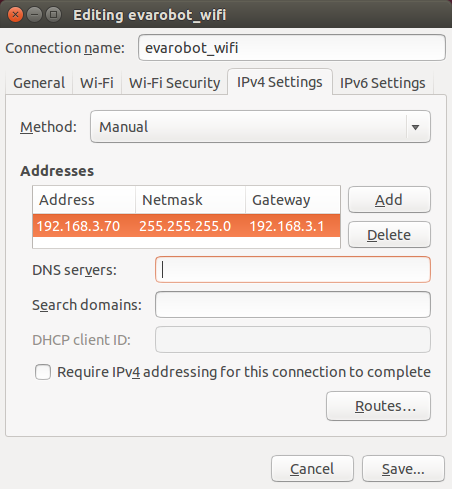
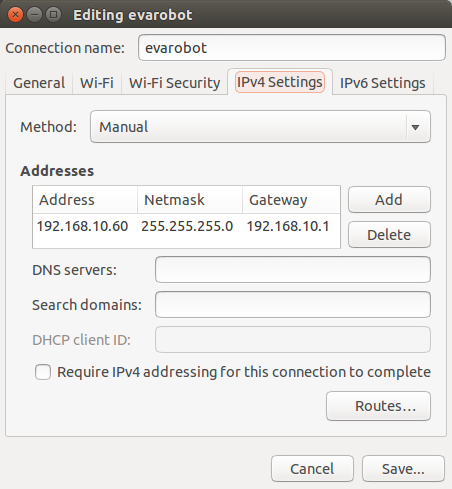
ip ve sync launch duzeltmeleri

diff --git a/hazirlik.rst b/hazirlik.rst
@@ -160,18 +160,20 @@ Evarobot PC paketi indirilir ve derlenir.
 	> cd ~/catkin_ws/src
 
 	# evarobot pc paketi indirilir.
-	> git clone https://github.com/inomuh/evapc_ros.git -b eva50
+	> git clone https://github.com/inomuh/evapc_ros.git -b indigo-devel
 
 Evarobot simulasyon ortamını kurmak için evarobot_simulation paketinin indirilmesi gerekmektedir.
 İlgili bilgisayarda simulasyon ortamını kurmadıysanız bu adımı geçebilirsiniz.
 
 ::
-	> git clone https://github.com/inomuh/evarobot_simulator.git
+
+	> git clone https://github.com/inomuh/evarobot_simulator.git -b indigo-devel
 	
 	
 Indirilen paketler derlenir.
 
 ::
+
 	> cd ~/catkin_ws
 	> catkin_make
 
@@ -251,16 +253,16 @@ ve hostname bilgilerini giriyoruz. Burada dikkat edilmesi gereken konu, aynı ip
 
 ::
 
-	192.168.3.70 <hostname>
-	192.168.3.10 evarobotDSK
+	192.168.10.60 <hostname>
+	192.168.10.10 evarobot
 
 Örnekte kullandığımız bilgisayar için aşağıdaki gibi ekleme yaptık. 
 Sizde kendi bilgisayarınızın hostname'ine uygun olarak düzeltme yapmalısınız.
 
 ::
 
-	192.168.3.70 evarobotserver
-	192.168.3.10 evarobotDSK
+	192.168.10.60 evarobotserver
+	192.168.10.10 evarobot
 
 
 evarobot ile bilgisayar arasında zaman eşitlemesinin yapılması gerekmektedir. 
@@ -290,7 +292,7 @@ Editörde 23. satıra aşağıdaki satırlar eklenir.
 
 ::
 
-	broadcast evarobotDSK
+	broadcast evarobot
 
 Bilgisayar bir ağda client gibi çalışarak internetten saatini güncellerken, 
 evarobot_wifi ağına girdiğinde ntp sunucu gibi çalışması için yeniden başlatmak gerekmektedir. 
@@ -309,16 +311,16 @@ NTP ağındaki bilgisayarlar hakkında bilgi almak için aşağıdaki kod kullan
 
 evarobot_wifi ağı için ip ayarlarının yapılması
 
-Bu kısımda evarobot_wifi ağından 192.168.3.70 ip'sini statik olarak almak için ayarlar yapacağız. 
+Bu kısımda evarobot_wifi ağından 192.168.10.60 ip'sini statik olarak almak için ayarlar yapacağız. 
 Evarobot'a güç verdiğinizde bir kaç dakika içerisinde evarobot_wifi isimli ağı görebilirsiniz. 
 
 Modem bilgileri: 
 
-SSID: evarobot_wifi 
+SSID: evarobot
 
 Şifre: inomuh2015 
 
-Aşağıdaki resimlerdeki 'evarobot_wifi' isimli ağa girilir. 
+Aşağıdaki resimlerdeki 'evarobot' isimli ağa girilir. 
 
 .. figure:: _static/evarobot_wifi1.png
    :align: center
@@ -342,7 +344,7 @@ Ağdan şu anda dhcp tarafından otomatik bir ip atandı. Aşağıdaki resimlerd
    :figclass: align-centered
    
 Açılan ekranda 'IPv4 Settings' sekmesi altında 'Method' Manual seçilerek 
-resimdeki gibi adresler eklenir. Address: 192.168.3.70 Netmask: 255.255.255.0 Gateway: 192.168.3.1 
+resimdeki gibi adresler eklenir. Address: 192.168.10.60 Netmask: 255.255.255.0 Gateway: 192.168.10.1 
 
 .. figure:: _static/evarobot_wifi5.png
    :align: center
@@ -360,7 +362,7 @@ Yeni girilen ayarların aktif olması için resimdeki gibi Wifi Enable ve ardın
 
 
 Eğer ayarlamalar hatasız bir şekilde yapıldı ise terminalde aşağıdaki kod çalıştırıldığında
-resimdeki gibi bilgisayarın 192.168.3.70 no ip'yi almış olması beklenmektedir.
+resimdeki gibi bilgisayarın 192.168.10.60 no ip'yi almış olması beklenmektedir.
 
 ::
 
@@ -377,11 +379,11 @@ bilgisayar tarafında yapılması gerekli olan ayarlamaları yapmış bulunmakta
 
 Evarobot ağ ayarlarını yapmadan önce Bilgisayar Ağ Ayarlarını yapmış olmasınız.
 
-evarobot_wifi ağına statik ip ile bağlandıktan sonra, ssh ile Evarobot'a bağlanılır. (Şifre: 12345)
+evarobot ağına statik ip ile bağlandıktan sonra, ssh ile Evarobot'a bağlanılır. (Şifre: 12345)
    
 ::
 
-	> ssh pi@evarobotDSK
+	> ssh pi@evarobot
 	
 Evarobot içerisindeki 'hosts' isimli dosyaya kendi bilgisayarımızın adını ve IP'sini 
 eklemek için açıyoruz. Evarobot'a ssh ile bağlandığımız için içeride görsel bir şey 
@@ -395,13 +397,13 @@ Aşağıdaki gibi eklemeye yapacağız. Hostname yerine bilgisayarımızın host
 
 ::
 
-	192.168.3.70 <hostname>
+	192.168.10.60 <hostname>
 
 Örnek için kullandığımız bilgisayar için aşağıdaki gibi bir giriş yapıyoruz.
 
 ::
 
-	192.168.3.70 evarobotserver
+	192.168.10.60 evarobotserver
 
 Kaydederek çıkmak için Ctrl + X tuş kombinasyonunu kullanıyoruz. Kaydetmek 
 isteyip istemediğimizi soracak Y tuşuna basıyoruz. Ardından dosya isminde değişiklik yapmadan Enter'a basıyoruz.

diff --git a/calistirma.rst b/calistirma.rst
@@ -4,13 +4,13 @@
 Bilgisayarı Çalıştırma
 ----------------------
 Bu kısımda bilgisayardan evarobotunuzu kontrol etmek için yapmanız gerekenler anlatılmaktadır.
-evarobot'a güç verildiğinde evarobot_wifi isminde kablosuz ağ oluşmakta ve EKB(Elektronik Kontrol Birimi) açılmaktadır. 
-Bilgisayardan evarobot_wifi(Şifre: inomuh2015) ağına girilir ve ssh ile Evarobot'a bağlanılır. 
+evarobot'a güç verildiğinde evarobot isminde kablosuz ağ oluşmakta ve EKB(Elektronik Kontrol Birimi) açılmaktadır. 
+Bilgisayardan evarobot (Şifre: inomuh2015) ağına girilir ve ssh ile Evarobot'a bağlanılır. 
 SSH bağlantısı yapmak için aşağıdaki kod çalıştırılır.
 
 ::
 
-	> ssh root@evarobotDSK
+	> ssh pi@evarobot
 
 evarobot üzerinde ROS kütüphanelerini çalıştırmak için süper kullanıcı olarak giriş yapmak gerekmektedir. 
 SSH yaptıktan sonra süper kullanıcı girişi aşağıdaki kod çalıştırılarak yapılır.
@@ -24,7 +24,7 @@ evarobot içerisinde her yeni bir terminal açmak istenildiğinde yukarıdaki ik
 
 Evarobot'u Çalıştırma
 ---------------------
-Evarobot'a açma butonuna bastığınızda ortamda evarobot_wifi isimli kablosuz ağ oluşacaktır.
+Evarobot'a açma butonuna bastığınızda ortamda evarobot isimli kablosuz ağ oluşacaktır.
 Bilgisayarınız ile bu ağa bağlandıktan kısa süre sonra evarobot açılışını tamamlayarak çalışmaya
 tam performans çalışmaya başlayacaktır.
 
@@ -60,19 +60,25 @@ Evarobot Kalibrasyon
 Evarobot'un kendi yönelimini daha iyi hesaplaması için IMU sensörün kalibrasyonunu yapmanız gerekmektedir.
 
 Kalibrasyonu başlatmadan önce evarobot servisinin kapalı olduğundan emin olun.
+
 ::
-> sudo service evarobot status
+
+	> sudo service evarobot status
 
 Eğer servis durumu sorgulandığında çalışıyor ise, servisi durdurmak için,
+
 ::
-> sudo service evarobot stop
+
+	> sudo service evarobot stop
 
 Kalibrasyonu başlattığınızda robot kendi etrafında belirli bir süre dönecektir.
 Bu sebepten dolayı robotun bu hareketi düzgün gerçekleştirebileceği ortama koyduğunuzdan emin olun.
 
 Etrafı nesnelerden arındırılmış ve düz bir zemine robotu koyduktan sonra kalibrasyonu çalıştırmak için,
+
 ::
-> sudo -s
-> roslaunch evarobot_start imu_calibration.launch
+
+	> sudo -s
+	> roslaunch evarobot_start imu_calibration.launch
 
 Ekranda işlemin başarı ile tamamladığını belirten yazı çıktıktan sonra Ctrl+C yaparak işlemi sonlardırabilirsiniz.

diff --git a/ros-imu.rst b/ros-imu.rst
@@ -11,7 +11,7 @@ Evarobot üzerindeki imu sensörünü çalıştırmadan önce Evarobot'a ssh ile
 ::
 
 	# evarobot
-	> ssh pi@evarobotDSK
+	> ssh pi@evarobot
 	> sudo -s
 
 IMU sensörünü çalıştırmak için aşağıdaki kodu terminalde çalıştırmak yeterli olacaktır. 
@@ -28,13 +28,13 @@ Bilgisayar ile Evarobot'un konuşabilmesi için multimaster_fkie paketinde keşi
 ::
 
 	# evarobot
-	> roslaunch master_discovery_fkie master_discovery.launch
+	> roslaunch evarobot_start master_discovery.launch
 
 
 ::
 
 	# evarobot
-	> roslaunch master_sync_fkie master_sync.launch
+	> roslaunch evarobot_start master_sync.launch
 
 
 IMU Sensörünü Terminalden Okuma
@@ -45,19 +45,14 @@ Bilgisayar tarafında terminalden imu sensörünü okumak için senkronizasyon d
 ::
 
 	# pc
-	> roslaunch master_discovery_fkie master_discovery.launch
-
-::
-
-	# pc
-	> roslaunch master_sync_fkie master_sync.launch
+	> roslaunch evapc_start sync.launch
 
 Başka bir terminalde rostopic komutu ile imu verisi okunabilir.
 
 ::
 
 	# pc
-	> rostopic echo /imu_data
+	> rostopic echo /imu
 
 Topik hakkında bilgi almak için ise aşağıdaki kod kullanılır.
 
@@ -65,7 +60,7 @@ Topik hakkında bilgi almak için ise aşağıdaki kod kullanılır.
 ::
 
 	# pc
-	> rostopic info /imu_data
+	> rostopic info /imu
 	
 	
 
@@ -122,7 +117,7 @@ imu_listener.cpp dosyasının içerisine yazılacak kod aşağıda verilmektedir
 	   * Subscriber tanımlanıyor.
 	   * İlk parametre olarak dinlenecek topiğin adı, ardından bufferın büyüklüğü ve callback fonksiyonu tanımlanmaktadır.
 	   */
-	  ros::Subscriber sub = n.subscribe("imu_data", 1000, chatterCallback);
+	  ros::Subscriber sub = n.subscribe("imu", 1000, chatterCallback);
 
 	  ros::spin();
 

diff --git a/ros-kizilotesi.rst b/ros-kizilotesi.rst
@@ -11,7 +11,7 @@ Evarobot üzerindeki kızılötesi sensörleri çalıştırmadan önce Evarobot'
 ::
 
 	# evarobot
-	> ssh pi@evarobotDSK
+	> ssh pi@evarobot
 	> sudo -s
 
 Kızılötesi sensörlerini çalıştırmak için aşağıdaki kodu terminalde çalıştırmak yeterli olacaktır. 
@@ -28,12 +28,12 @@ Bilgisayar ile Evarobot'un konuşabilmesi için multimaster_fkie paketinde keşi
 ::
 
 	# evarobot
-	> roslaunch master_discovery_fkie master_discovery.launch
+	> roslaunch evarobot_start master_discovery.launch
 
 ::
 
 	# evarobot
-	> roslaunch master_sync_fkie master_sync.launch
+	> roslaunch evarobot_start master_sync.launch
 
 Kızılötesi Sensörlerini Terminalden Okuma
 ~~~~~~~~~~~~~~~~~~~~~~~~~~~~~~~~~~~~~~~~~
@@ -43,12 +43,7 @@ Bilgisayar tarafında terminalden kızılötesi sensörlerini okumak için senkr
 ::
 
 	# pc
-	> roslaunch master_discovery_fkie master_discovery.launch
-
-::
-
-	# pc
-	> roslaunch master_sync_fkie master_sync.launch
+	> roslaunch evapc_start sync.launch
 
 Başka bir terminalde rostopic komutu ile kızılötesi verisi okunabilir. 
 Varsayılan ayarlarda kullanılan topik ismi /sensor/ir<n> şeklindedir. 

diff --git a/ros-sonar.rst b/ros-sonar.rst
@@ -11,7 +11,7 @@ Evarobot üzerindeki sonarları çalıştırmadan önce Evarobot'a ssh ile bağl
 ::
 
 	# evarobot
-	> ssh pi@evarobotDSK
+	> ssh pi@evarobot
 	> sudo -s
 
 Sonar sensörlerini çalıştırmak için aşağıdaki kodu terminalde çalıştırmak yeterli olacaktır. 
@@ -28,12 +28,12 @@ Bilgisayar ile Evarobot'un konuşabilmesi için multimaster_fkie paketinde keşi
 ::
 
 	# evarobot
-	> roslaunch master_discovery_fkie master_discovery.launch
+	> roslaunch evarobot_start master_discovery.launch
 
 ::
 
 	# evarobot
-	> roslaunch master_sync_fkie master_sync.launch
+	> roslaunch evarobot_start master_sync.launch
 
 
 Sonar Sensörlerini Terminalden Okuma
@@ -44,12 +44,7 @@ Bilgisayar tarafında terminalden sonar sensörlerini okumak için senkronizasyo
 ::
 
 	# pc
-	> roslaunch master_discovery_fkie master_discovery.launch
-
-::
-
-	# pc
-	> roslaunch master_sync_fkie master_sync.launch
+	> roslaunch evapc_start sync.launch
 
 Başka bir terminalde rostopic komutu ile sonar verisi okunabilir. 
 Varsayılan ayarlarda kullanılan topik ismi /sensor/sonar<n> şeklindedir. 

diff --git a/ros-enkoder.rst b/ros-enkoder.rst
@@ -11,7 +11,7 @@ Evarobot üzerindeki enkoder sensörleri çalıştırmadan önce Evarobot'a ssh 
 ::
 
 	# evarobot
-	> ssh pi@evarobotDSK
+	> ssh pi@evarobot
 	> sudo -s
 
 Enkoder sensörleri çalıştırmak için aşağıdaki kodu terminalde çalıştırmak yeterli olacaktır. 
@@ -28,12 +28,12 @@ Bilgisayar ile Evarobot'un konuşabilmesi için multimaster_fkie paketinde keşi
 ::
 
 	# evarobot
-	> roslaunch master_discovery_fkie master_discovery.launch
+	> roslaunch evarobot_start master_discovery.launch
 
 ::
 
 	# evarobot
-	> roslaunch master_sync_fkie master_sync.launch
+	> roslaunch evarobot_start master_sync.launch
 
 
 Enkoder Sensörlerini Terminalden Okuma
@@ -44,12 +44,7 @@ Bilgisayar tarafında terminalden enkoderlerden gelen veri ile hesaplanan konum 
 ::
 
 	# pc
-	> roslaunch master_discovery_fkie master_discovery.launch
-
-::
-
-	# pc
-	> roslaunch master_sync_fkie master_sync.launch
+	> roslaunch evapc_start sync.launch
 
 Başka bir terminalde rostopic komutu ile hesaplanan robotun bağıl konum ve hız okunabilir.
 

diff --git a/ros-bumper.rst b/ros-bumper.rst
@@ -13,7 +13,7 @@ evarobot üzerindeki bumper'ı çalıştırmadan önce Evarobot'a ssh ile bağla
 ::
 
 	# evarobot
-	> ssh pi@evarobotDSK
+	> ssh pi@evarobot
 	> sudo -s
 
 Bumper sensörlerini çalıştırmak için aşağıdaki kodu terminalde çalıştırmak yeterli olacaktır. 
@@ -30,12 +30,12 @@ Bilgisayar ile evarobot'un konuşabilmesi için multimaster_fkie paketinde keşi
 ::
 
 	# evarobot
-	> roslaunch master_discovery_fkie master_discovery.launch
+	> roslaunch evarobot_start master_discovery.launch
 
 ::
 
 	# evarobot
-	> roslaunch master_sync_fkie master_sync.launch
+	> roslaunch evarobot_start master_sync.launch
 
 
 Bumper'ı Terminalden Okuma
@@ -46,12 +46,7 @@ Bilgisayar tarafında terminalden bumper sensörlerini okumak için senkronizasy
 ::
 
 	# pc
-	> roslaunch master_discovery_fkie master_discovery.launch
-
-::
-
-	# pc
-	> roslaunch master_sync_fkie master_sync.launch
+	> roslaunch evapc_start sync.launch 
 
 Başka bir terminalde rostopic komutu ile bumper verisi okunabilir.
 
